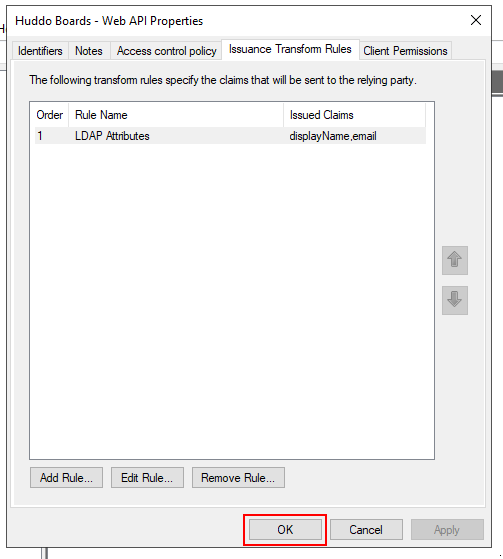
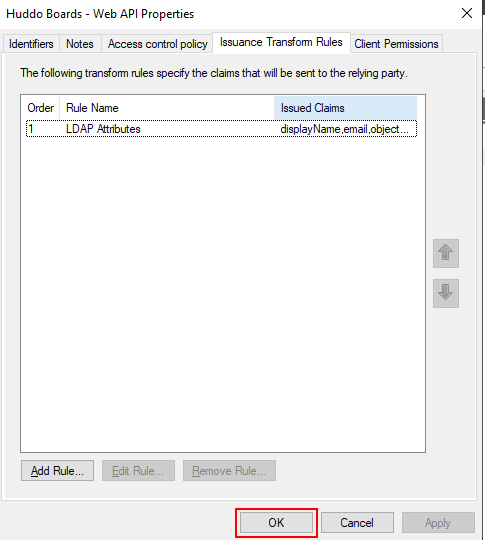
ADFS - add objectGUID to ldap claim

Changed region(s): [[0.0, 0.0, 1.0, 1.0]]

diff --git a/docs/boards/msadfs/application-group/index.md b/docs/boards/msadfs/application-group/index.md
@@ -111,8 +111,11 @@ To use Microsoft AD FS as an authentication provider for Huddo Boards, you will 
 
     Map the LDAP attributes to outgoing claim types (type these in manually)
 
-    -   `Display-Name` to `displayName`
-    -   `E-Mail-Addresses` to `email`
+    | LDAP Attribute     | Outgoing Claim Type |
+    | ------------------ | ------------------- |
+    | `Display-Name`     | `displayName`       |
+    | `E-Mail-Addresses` | `email`             |
+    | `objectGUID`       | `objectGUID`        |
 
     !!! warning
 
